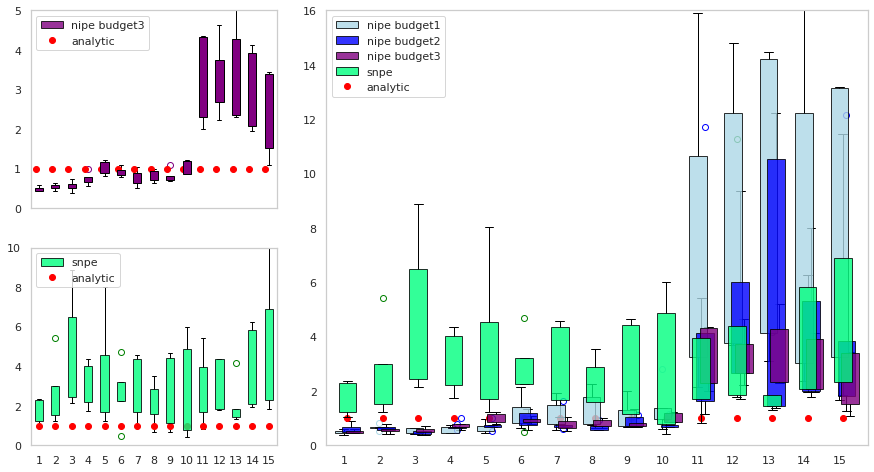
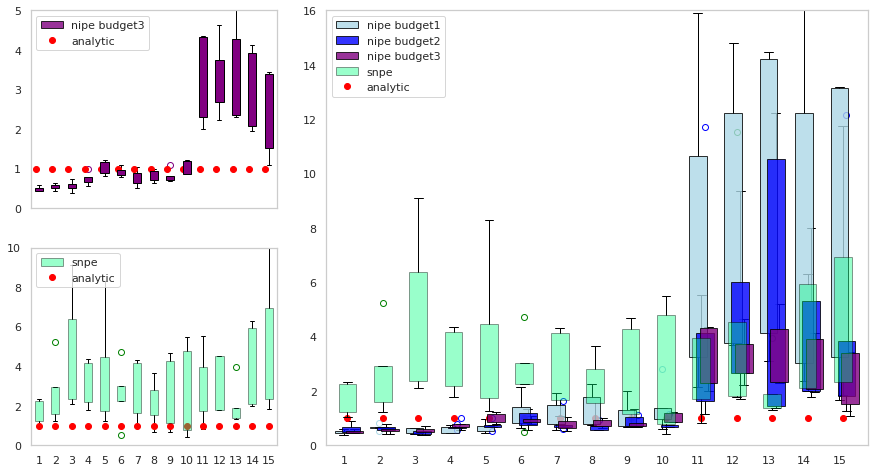
1/30

diff --git a/code/sequential_inference_17params.py b/code/sequential_inference_17params.py
@@ -213,7 +213,7 @@ def main(argv):
         theta, x_without = inference.run_sim_theta_x(
             prior1, 
             sim_wrapper,
-            num_simulations=int(num_sim*(1/10)),
+            num_simulations=int(num_sim*(1/30)),
             #num_simulations = num_sim,
             num_workers=num_workers
         )
@@ -369,7 +369,7 @@ def main(argv):
         theta, x_without = inference.run_sim_theta_x(
             combined_prior,
             sim_wrapper,
-            num_simulations=int(num_sim*(19/10)),
+            num_simulations=int(num_sim*(59/30)),
             #num_simulations = num_sim,
             num_workers = num_workers
         )
